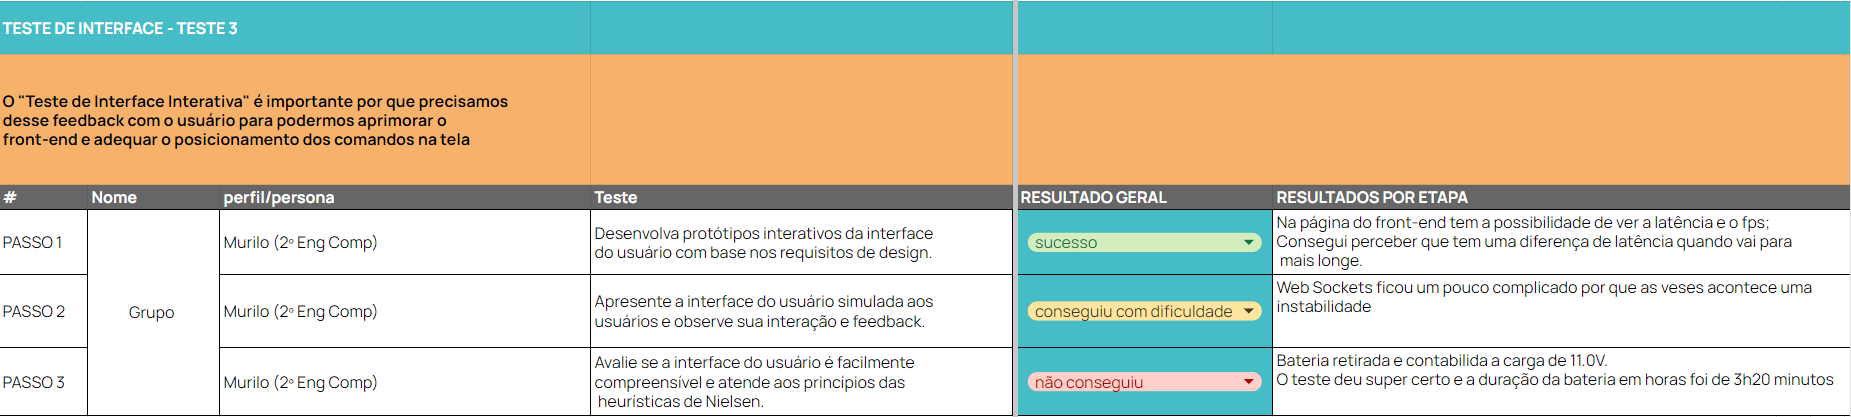
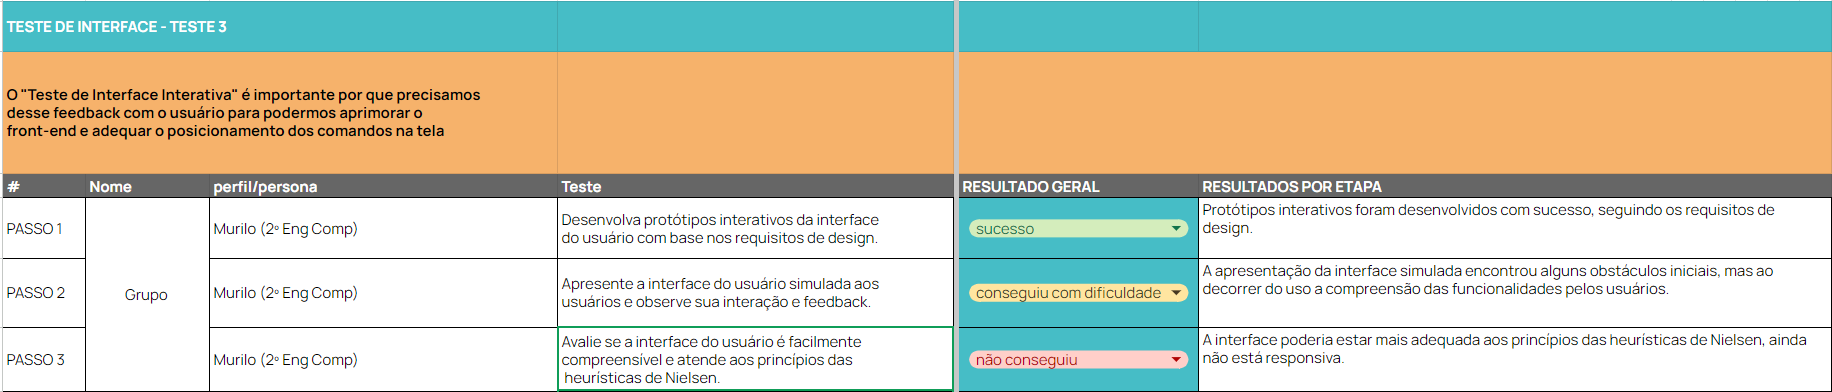
alterações e conclusões dos testes

diff --git a/docs/docs/sprint_4/testes_requisitos.md b/docs/docs/sprint_4/testes_requisitos.md
@@ -8,15 +8,15 @@ Este documento é responsável por detalhar testes de funcionalidade para requis
 
 Os requisitos funcionais estabelecidos anteriormente podem ser visualizados [aqui](https://inteli-college.github.io/2024-1B-T08-EC06-G02/sprint_1/programacao/requisitos_funcionais), já os requisitos não funcionais neste [link](https://inteli-college.github.io/2024-1B-T08-EC06-G02/sprint_1/programacao/requisitos_nao_funcionais). 
 
-# Testes de funcionalidade: requisito funcional
-## Contexto
+## Testes de funcionalidade: requisito funcional
+### Contexto
 Dos requisitos funcionais estabelecidos anteriormente, escolhemos o:
 
 **RF03**: O robô deve ter um sistema de colisão. Neste requisito, o Operador Industrial estará pilotando o robô via controle remoto. No entanto, caso o robô se aproxime a uma determinada distância de um objeto ou ser vivo, o alerta será acionado na tela para notificar o usuário.
 
 O RF escolhido se dá pela sua importância na teleoperação do robô e por mesclar fatores como controle pela interface gráfica, sistema de colisão e alerta acionado. 
 
-## Roteiro de teste
+### Roteiro de teste
 Todo teste é seguido por uma **tarefa**. E toda tarefa é realizada por um **perfil/persona** que obtém um **resultado geral** e um resultado **por etapas**. 
 
 Sendo assim, para garantir que o RF esteja de acordo com o estabelecido, criamos critérios para avaliar se o teste foi realizado com sucesso ou não. O RF escolhido, neste caso, é a tarefa. 
@@ -33,7 +33,7 @@ E a condução dos testes deve acontecer da seguinte forma:
 2. Realizar o setup previamente do robô: rodar a interface, o BringUp do turtlebot, a conexão WebSocket e o envio dos dados da câmera.
 3. Fornecer o notebook para teleoperar o robô e anotar as informações coletadas. 
 
-## Relatório de execução
+### Relatório de execução
 ![Relatório de execução](../../static/img/sprint_4/testes_rf_registro.png)
 
 Os testes foram executados por 4 pessoas, além do teste realizado pelo grupo. Os resultados podem ser visualizados [neste arquivo](https://docs.google.com/spreadsheets/d/1FnYlsAU4UXWCYReaynA9F_aY9sgXys9OXnpAjph5xss/edit?usp=sharing) do Google Sheets.
@@ -55,7 +55,7 @@ Nele também é possível observar se o problema relatado é um problema de func
 ![Relatório de execução](../../static/img/sprint_4/testes_rf_ocorrencias.png)
 
 
-## Conclusão
+### Conclusão
 Como conclusão do teste de funcionalidade realizado, tivemos os seguintes feedbacks: 
 
 1.	Controle fácil do robô.
@@ -73,8 +73,8 @@ E como pontos de melhoria, tivemos:
 5.	**Melhoria na disposição dos elementos da interface**: Aperfeiçoar a responsividade e a disposição geral dos elementos na interface para melhorar a usabilidade e a estética geral.
 
 
-# Testes de validação: requisito não funcional
-## Contexto
+## Testes de validação: requisito não funcional
+### Contexto
 
 Dos requisitos não funcionais estabeledcidos anteriormente, escolhemos os:
 
@@ -91,7 +91,7 @@ O RNF escolhido se dá pela importância na teleoperação do robô e é de supe
 Esse RNF é de suma importância, pois permite compreender como o usuário interage com a página disponibilizada, facilitando o uso dos controles para comandar o robô. Através desses testes, poderemos ver se os comandos e teclas dispostos na tela estão fáceis para o usuário poder usar o robô com facilidade.
 Partindo desse teste, poderemos entender e aplicar modificações em nossa página com o auxílio dos feedbacks fornecidos.
 
-## Roteiro de teste
+### Roteiro de teste
 Todo teste é seguido por uma **tarefa**. E toda tarefa é realizada por um **perfil/persona** que obtém um **resultado geral** e um resultado **por etapas**. 
 
 Sendo assim, para garantir que o RNF esteja de acordo com o estabelecido, criamos critérios para avaliar se o teste foi realizado com sucesso ou não. 
@@ -120,7 +120,7 @@ O "Teste de autonomia" em questão, será realizado com o grupo de desenvolvedor
 - Passo 5: Depois que apitou, parâmos o cronômetro e vemos quanto tempo deu de funcionamento do robô.
 
 
-## Relatório de execução
+### Relatório de execução
 Segue imagem do relatório de execução de autonomia do robô com a bateria em 100% (12.6V):
 
 ![RNF_de_autonomia_do_robô](../../static/img/sprint_4/RNF_autonomia_robo.png)
@@ -139,8 +139,8 @@ No geral, este foi o resultado obtido:
 
 Além disso, destacamos os principais problemas observados, classificando por nível de severidade e potenciais melhorias. Isto pode ser observado na segunda aba "ocorrências" do [mesmo arquivo](https://docs.google.com/spreadsheets/d/1FnYlsAU4UXWCYReaynA9F_aY9sgXys9OXnpAjph5xss/edit?usp=sharing)  Google Sheets.
 
-## Conclusão
-...
+### Conclusão
+Os testes mostraram que o robô não alcançou o objetivo inicial de quatro horas, mas continuou funcionando com eficiência por três horas e vinte minutos. A diferença de quarenta minutos indica a possibilidade de melhorar a gestão de energia ou otimizar os componentes do robô para aumentar a eficiência da bateria. Para continuar, é fundamental estudar como várias condições operacionais, como variações de carga e condições ambientais, afetam a duração da bateria. A análise cuidadosa das ocorrências e reações registradas ajudará a identificar pontos de melhoria técnica específicos, garantindo melhorias contínuas na performance e na confiabilidade do robô em futuras implementações.
 
 ## Tarefa para o teste de latência
 O "Teste de latência" em questão, será realizado com o grupo de desenvolvedores para poder visualizar como a latência se comporta dependendo de onde a pessoa está com o computador eberto e fazendo o teste para poder controlar o robô. E claro, se a persona/tester conseguiu enviar os comando para o robô e ele conseguiu se movimentar.
@@ -152,7 +152,7 @@ Será avaliado nesse teste também o tempo de reinderização da imagem para que
 - Passo 3: Meça a latência de comunicação durante a operação do robô com o auxílio da propriedado do front que mostra o FPS e a Latência.
 - Passo 4: Deixe o robô no laboratório e rode o programa dentro do ateliê para visualizar a latência e o FPS. Depois, rode o programa da biblioteca para visualizar a latência e o FPS e por último, rode do refeitório para fazer o mesmo teste.
 
-## Relatório de execução
+### Relatório de execução
 Segue imagem do relatório de execução da latência e FPS do robô:
 
 ![RNF_de_latência_e_FPS_do_robô](../../static/img/sprint_4/RNF_latencia_robo.png)
@@ -164,19 +164,19 @@ No geral, este foi o resultado obtido:
 | #       | Nome          | Perfil/Persona                   | Teste                                                                                   | Resultado Geral |
 |---------|---------------|----------------------------------|-----------------------------------------------------------------------------------------|-----------------|
 | PASSO 1 | GRUPO         | Aluno (José Alencar 2º Eng Comp)      | Configuração e execução do código para começar a avaliação da latência e FPS. | Sucesso         |
-| PASSO 2 | GRUPO         | Aluno (José Alencar 2º Eng Comp)      | Estabeleça uma conexão de teleoperação entre o controlador e o robô. | Sucesso         |
+| PASSO 2 | GRUPO         | Aluno (José Alencar 2º Eng Comp)      | Estabeleça uma conexão de teleoperação entre o controlador e o robô. | Conseguiu com dificuldade         |
 | PASSO 3 | GRUPO         | Aluno (José Alencar 2º Eng Comp)      | Meça a latência de comunicação durante a operação do robô com o auxílio da propriedado do front que mostra o FPS e a Latência. | Sucesso         |
 | PASSO 4 | GRUPO         | Aluno (José Alencar 2º Eng Comp)      | Deixe o robô no laboratório e rode o programa dentro do ateliê para visualizar a latência e o FPS. Depois, rode o programa da biblioteca para visualizar a latência e o FPS e por último, rode do refeitório para fazer o mesmo teste.| Sucesso  |
 
 Além disso, destacamos os principais problemas observados, classificando por nível de severidade e potenciais melhorias. Isto pode ser observado na segunda aba "ocorrências" do [mesmo arquivo](https://docs.google.com/spreadsheets/d/1FnYlsAU4UXWCYReaynA9F_aY9sgXys9OXnpAjph5xss/edit#gid=1538901939)  Google Sheets.
 
-## Conclusão
-...
+### Conclusão
+Os testes de latência e FPS do robô mostraram que ele manteve a latência dentro de limites aceitáveis em vários ambientes, apesar de alguns problemas iniciais com a conexão de teleoperação. Isso mostra a força do sistema. Os resultados indicam que a otimização contínua é necessária, principalmente na conexão, para aumentar a eficiência operacional em ambientes difíceis. Além disso, é aconselhável realizar uma análise minuciosa das ocorrências com o objetivo de orientar melhorias e ajustes técnicos no futuro.
 
 ## Tarefa para o teste de interface interativa
 O "Teste de Interface Interativa" será realizado pelo grupo de desenvolvedores para avaliar a usabilidade da interface do usuário. Este teste é fundamental para garantir que a interface seja facilmente compreendida ao primeiro contato, seguindo os princípios das heurísticas de Nielsen. Durante o teste, os desenvolvedores observarão como os usuários interagem com a interface, identificando possíveis dificuldades e coletando feedback para melhorias. A realização deste teste é essencial para assegurar que os controles do robô sejam intuitivos e eficientes para todos os usuários, independentemente do seu nível de letramento digital.
 
-## Heurísticas de Nielsen
+### Heurísticas de Nielsen
 
 As heurísticas de Nielsen são um conjunto de dez princípios gerais para o design de interface de usuário, propostos por Jakob Nielsen. Elas servem como diretrizes para avaliar a usabilidade de um sistema. Aqui estão resumidamente:
 
@@ -198,7 +198,7 @@ Essas heurísticas são amplamente utilizadas no design de interfaces para melho
 - Passo 2: Apresente a interface do usuário simulada aos usuários e observe sua interação e feedback.
 - Passo 3: Avalie se a interface do usuário é facilmente compreensível e atende aos princípios das heurísticas de Nielsen.
 
-## Relatório de execução
+### Relatório de execução
 Segue imagem do relatório de visualização da interface interativa para controlar o robô e visualizar a imagem da câmera:
 
 ![RNF_de_interface_interativa_do_robô](../../static/img/sprint_4/RNF_interface_robo.png)
@@ -211,13 +211,13 @@ No geral, este foi o resultado obtido:
 | #       | Nome          | Perfil/Persona                   | Teste                                                                                   | Resultado Geral |
 |---------|---------------|----------------------------------|-----------------------------------------------------------------------------------------|-----------------|
 | PASSO 1 | GRUPO         | Aluno (Murilo 2º Eng Comp)      | Desenvolva protótipos interativos da interface do usuário com base nos requisitos de design. | Sucesso         |
-| PASSO 2 | GRUPO         | Aluno (Murilo 2º Eng Comp)      | Apresente a interface do usuário simulada aos usuários e observe sua interação e feedback. | Sucesso         |
-| PASSO 3 | GRUPO         | Aluno (Murilo 2º Eng Comp)      | Avalie se a interface do usuário é facilmente compreensível e atende aos princípios das heurísticas de Nielsen. | Sucesso         |
+| PASSO 2 | GRUPO         | Aluno (Murilo 2º Eng Comp)      | Apresente a interface do usuário simulada aos usuários e observe sua interação e feedback. | Conseguiu com dificuldade         |
+| PASSO 3 | GRUPO         | Aluno (Murilo 2º Eng Comp)      | Avalie se a interface do usuário é facilmente compreensível e atende aos princípios das heurísticas de Nielsen. | Não deu certo         |
 
 Além disso, destacamos os principais problemas observados, classificando por nível de severidade e potenciais melhorias. Isto pode ser observado na segunda aba "ocorrências" do [mesmo arquivo](https://docs.google.com/spreadsheets/d/1FnYlsAU4UXWCYReaynA9F_aY9sgXys9OXnpAjph5xss/edit?usp=sharing)  Google Sheets.
 
-## Conclusão
-...
+### Conclusão
+Os testes de interface interativa revelaram que, apesar do sucesso inicial no desenvolvimento dos protótipos, a interface enfrentou dificuldades em termos de usabilidade e não atendeu plenamente às heurísticas de Nielsen. Isso sublinha a necessidade de melhorias focadas em tornar a interface responsiva. Para futuros desenvolvimentos, recomenda-se revisar os elementos problemáticos com base no feedback dos usuários e realizar testes adicionais para garantir que a interface seja eficaz e satisfatória para o controle operacional do robô.
 
 ## Proposta de melhoria
 Lembra que é a mudança da bateria azul de 1800mha para a bateria preta de 2200mha.
